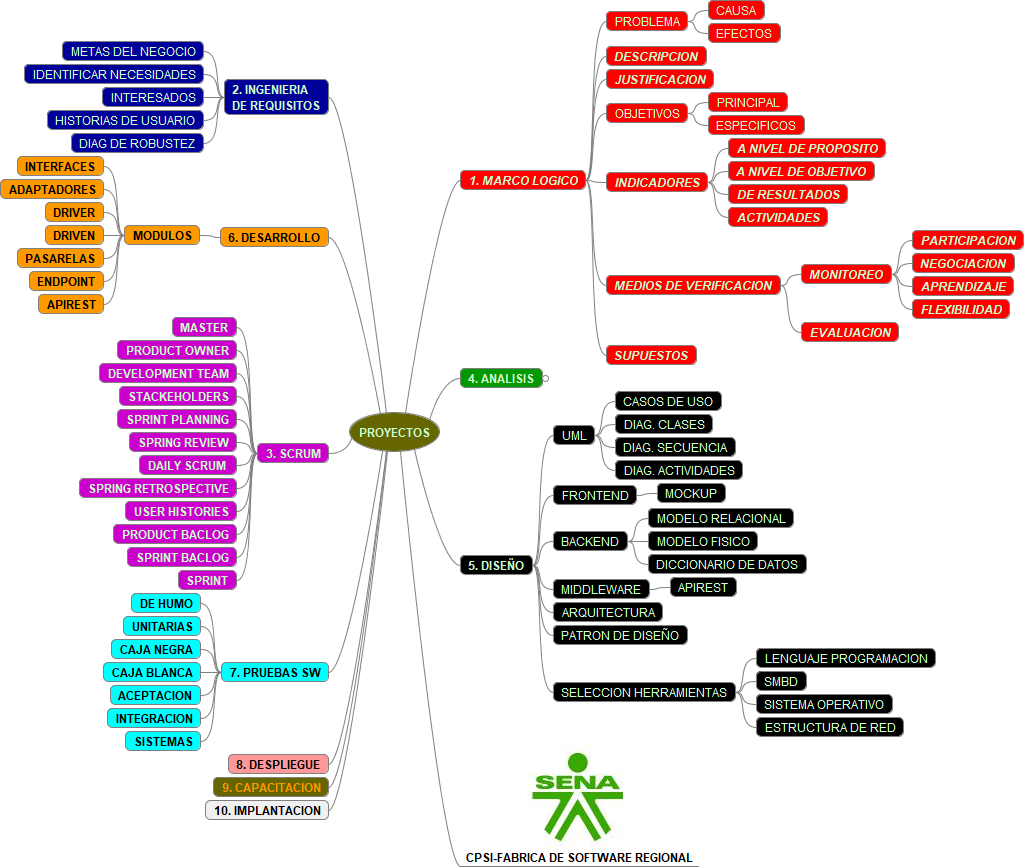
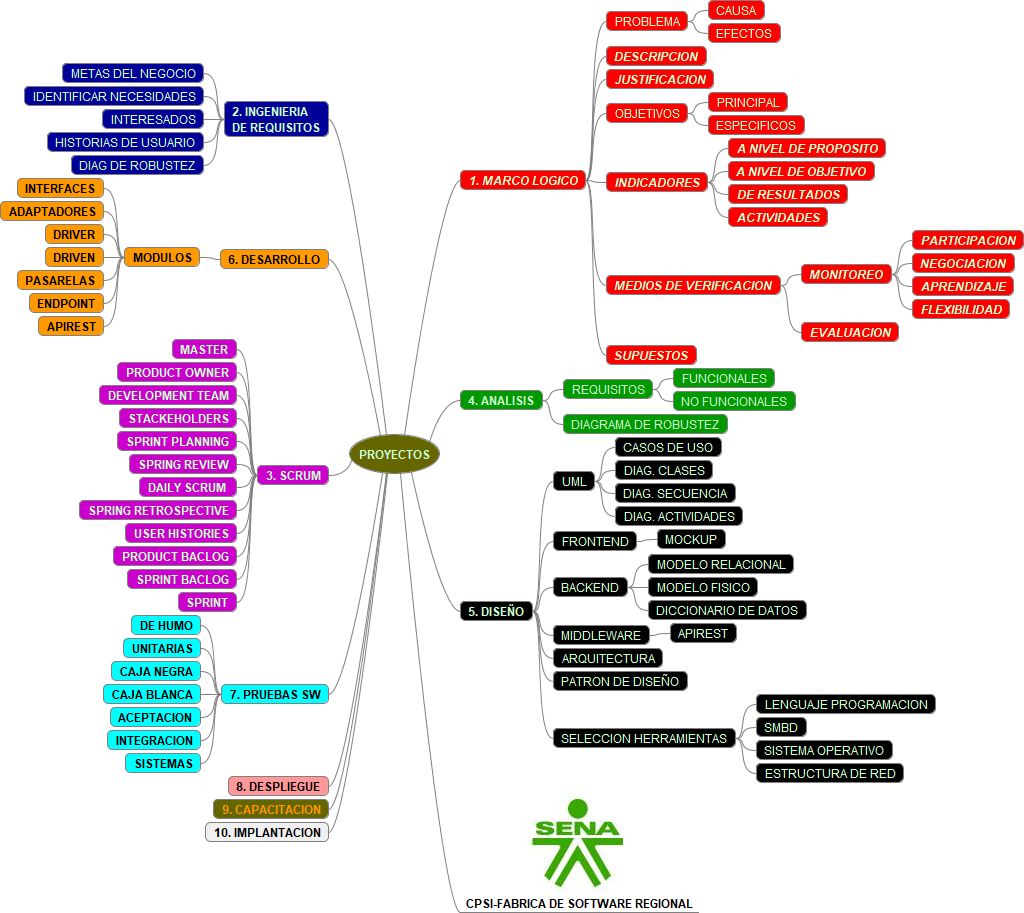
.

diff --git a/PROYECTOS.mm b/PROYECTOS.mm
@@ -99,7 +99,7 @@
 <node BACKGROUND_COLOR="#000099" COLOR="#ccffcc" CREATED="1725720954027" ID="ID_372005706" MODIFIED="1725722730691" TEXT="HISTORIAS DE USUARIO"/>
 <node BACKGROUND_COLOR="#000099" COLOR="#ccffcc" CREATED="1725720965831" ID="ID_43682576" MODIFIED="1725722730691" TEXT="DIAG DE ROBUSTEZ"/>
 </node>
-<node BACKGROUND_COLOR="#009900" COLOR="#ccffcc" CREATED="1725720990469" FOLDED="true" ID="ID_947463866" MODIFIED="1725726901168" POSITION="right" STYLE="bubble" TEXT="4. ANALISIS">
+<node BACKGROUND_COLOR="#009900" COLOR="#ccffcc" CREATED="1725720990469" ID="ID_947463866" MODIFIED="1725729555051" POSITION="right" STYLE="bubble" TEXT="4. ANALISIS">
 <font BOLD="true" NAME="SansSerif" SIZE="12"/>
 <node BACKGROUND_COLOR="#009900" COLOR="#ccffcc" CREATED="1725721003231" ID="ID_1879418057" MODIFIED="1725723945335" TEXT="REQUISITOS">
 <node BACKGROUND_COLOR="#009900" COLOR="#ccffcc" CREATED="1725721011339" ID="ID_143693679" MODIFIED="1725722774468" TEXT="FUNCIONALES"/>
